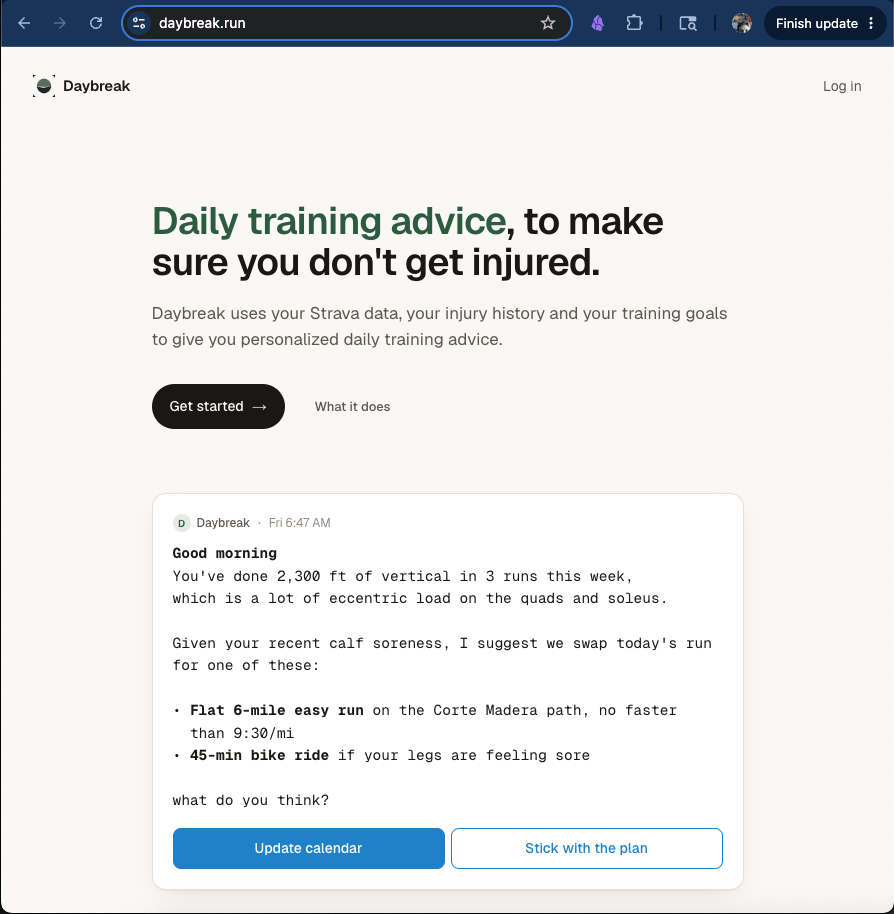
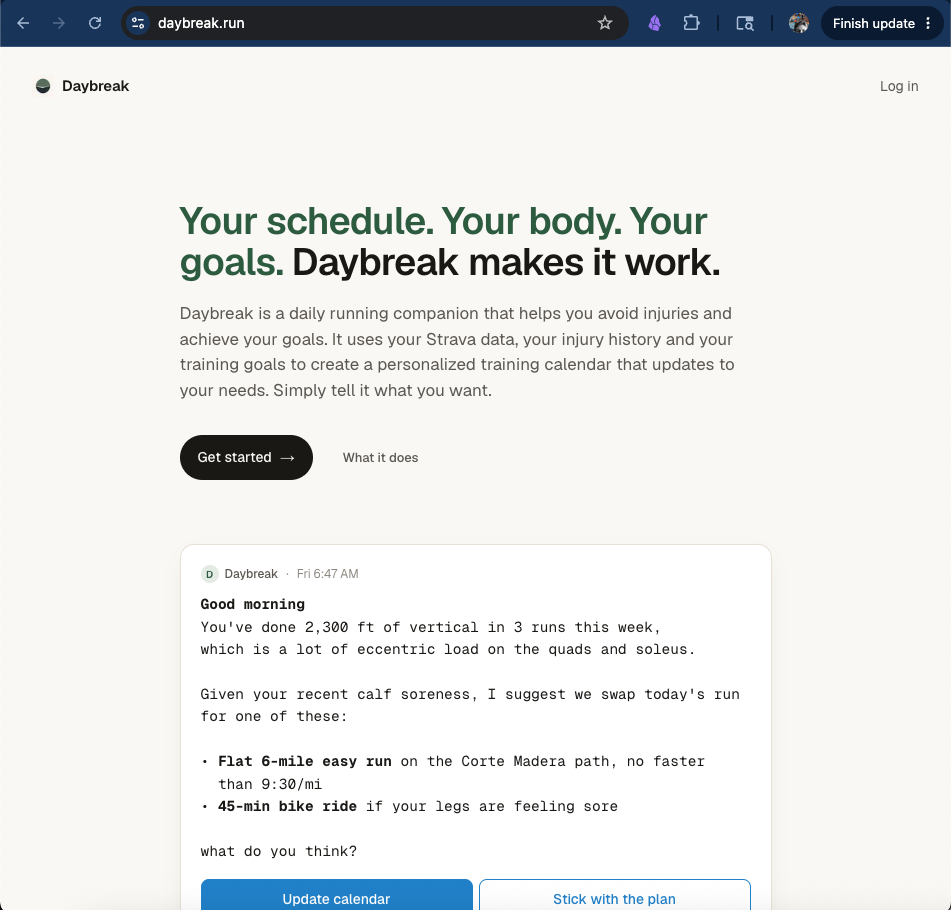
Daybreak updates

diff --git a/index.html b/index.html
@@ -356,13 +356,64 @@
     display:flex;justify-content:space-between;flex-wrap:wrap;gap:12px;
   }
 
+  /* mobile-only chrome (hidden on desktop) */
+  .topbar{display:none}
+  .sheet{display:none}
+
   /* responsive */
   @media (max-width: 760px){
-    .layout{grid-template-columns:1fr;gap:36px;padding:40px 24px 80px}
-    .side{position:static}
-    .nav{flex-direction:row;flex-wrap:wrap;gap:14px}
-    .nav a{padding-left:0;margin-left:0;border:0}
-    .nav a.cur{border:0;text-decoration:underline;text-underline-offset:4px;text-decoration-thickness:2px}
+    .layout{grid-template-columns:1fr;gap:36px;padding:12px 24px 80px}
+    .side{display:none}
+
+    .topbar{
+      display:flex;align-items:center;justify-content:space-between;
+      padding:20px 24px;margin:0 -24px 8px;
+    }
+    .topbar-brand{
+      font-family:var(--serif);font-weight:500;font-size:20px;letter-spacing:0.5px;
+      color:var(--ink);text-decoration:none;
+    }
+    .menu-btn{
+      width:40px;height:40px;border:0;background:transparent;cursor:pointer;
+      display:flex;flex-direction:column;justify-content:center;align-items:center;gap:5px;
+      padding:0;border-radius:3px;
+    }
+    .menu-btn span{
+      display:block;width:22px;height:1px;background:var(--ink);
+      transition:background .12s;
+    }
+    .menu-btn:hover span{background:var(--ink)}
+
+    .sheet{
+      display:block;position:fixed;inset:0;background:var(--paper);z-index:100;
+      opacity:0;pointer-events:none;transition:opacity .2s ease;
+      padding:72px 36px;overflow-y:auto;
+    }
+    body.sheet-open{overflow:hidden}
+    body.sheet-open .sheet{opacity:1;pointer-events:auto}
+    .sheet-close{
+      position:absolute;top:14px;right:18px;width:40px;height:40px;
+      border:0;background:transparent;cursor:pointer;
+      font-family:var(--serif);font-weight:300;font-size:32px;line-height:1;
+      color:var(--ink-2);padding:0;
+    }
+    .sheet-close:hover{color:var(--ink)}
+    .sheet-nav{display:flex;flex-direction:column;gap:18px;margin-bottom:36px}
+    .sheet-nav a{
+      font-family:var(--serif);font-weight:400;font-size:22px;line-height:1.2;
+      color:var(--ink);text-decoration:none;
+    }
+    .sheet-nav a.cur{font-weight:500;text-decoration:underline;text-decoration-color:var(--ink-4);text-underline-offset:5px;text-decoration-thickness:1px}
+    .sheet-label{
+      font-family:var(--mono);font-size:10px;letter-spacing:1.5px;text-transform:uppercase;
+      color:var(--ink-3);margin:0 0 14px;
+    }
+    .sheet-contact{display:flex;flex-direction:column;gap:12px}
+    .sheet-contact a{
+      font-family:var(--serif);font-weight:400;font-size:18px;
+      color:var(--ink-2);text-decoration:none;
+    }
+
     .proj-item{padding:36px 0 8px}
     .proj-detail{grid-template-columns:1fr;gap:28px}
     .intro{grid-template-columns:72px 1fr;gap:16px}
@@ -382,6 +433,14 @@
 <body class="no-current">
 
 <div class="layout">
+
+  <!-- ============ MOBILE TOP BAR ============ -->
+  <header class="topbar" aria-label="Site header">
+    <a href="/" data-route="about" class="topbar-brand">David Temple</a>
+    <button class="menu-btn" id="menuBtn" aria-label="Open menu" aria-expanded="false" aria-controls="mobileSheet">
+      <span></span><span></span><span></span>
+    </button>
+  </header>
 
   <!-- ============ SIDEBAR ============ -->
   <aside class="side">
@@ -544,11 +603,11 @@
         <article class="proj-item" data-stage="prototype">
           <div class="proj-meta">
             <span class="date">May, 2026</span>
-            <span class="pill prototype">prototype</span>
+            <span class="pill experiment">market experiment</span>
           </div>
-          <h3 class="proj-title"><a href="https://daybreak.run" target="_blank">Daybreak &mdash; a personal training coach in Telegram</a></h3>
+          <h3 class="proj-title"><a href="https://daybreak.run" target="_blank">Daybreak &mdash; a running companion</a></h3>
           <p class="proj-overview">
-            A training coach I built for myself and am slowly opening up. Daybreak uses an athlete's Strava data, injury history, and training goals to deliver personalized daily training advice grounded in real-world training plans and principles. Onboarding, daily check-ins, plan adjustments for flare-ups and tweaks, and calendar integration all happen entirely in Telegram; a minimalist Next.js app handles allowlist signup, Strava OAuth, and a read-only plan view.
+            A running companion tool I built for myself and am slowly opening up. Daybreak uses an athlete's Strava data, injury history, and training goals to deliver personalized daily training advice grounded in real-world training plans and principles. Onboarding, daily check-ins, plan adjustments for flare-ups and tweaks, and calendar integration all happen entirely in Telegram; a minimalist Next.js app handles allowlist signup, Strava OAuth, and a read-only plan view.
           </p>
 
           <div class="carousel solo" data-carousel>
@@ -569,9 +628,9 @@
             <div>
               <div class="colhead">Takeaways so far</div>
               <ol class="learnings">
-                <li>For just myself, I could manage all of this with .md context files. Introducing a full database added a lot of scope.</li>
-                <li>Telegram integration has been easy. Strava is a pain in the ass.</li>
-                <li>Spent a bunch of time fussing with env variables on Vercel.</li>
+                <li>Going from a personal context system to a full next.js harness took 3-4 days.</li>
+                <li>Onboarding + plan generation has been the most challenging part. I've rebuilt it several times, relinquishing more to the LLMs each time in the name of flexibility.</li>
+                <li>Repeating pattern: I build something too deterministically, and have to rebuild in a way that gives more freedom to the LLM.</li>
               </ol>
             </div>
           </div>
@@ -883,6 +942,23 @@
 
 </div>
 
+<!-- ============ MOBILE SHEET ============ -->
+<div class="sheet" id="mobileSheet" role="dialog" aria-modal="true" aria-hidden="true" aria-label="Menu">
+  <button class="sheet-close" aria-label="Close menu">&times;</button>
+  <nav class="sheet-nav" id="sheet-nav">
+    <a href="/" data-route="about">About</a>
+    <a href="/projects" data-route="projects">Projects</a>
+    <a href="https://github.com/dtemple">Github</a>
+    <a href="https://docs.google.com/document/d/1_KHnRj4mjGBAbWYQtQ60Akv7Sm_zeATYgDxjrpMiKtE/edit?tab=t.0">Quick-Guide to Product</a>
+  </nav>
+  <div class="sheet-label">Contact</div>
+  <div class="sheet-contact">
+    <a href="https://www.linkedin.com/in/dtemple/">LinkedIn</a>
+    <a href="http://x.com/dtemple">Twitter</a>
+    <a href="mailto:dtemple@gmail.com">Email</a>
+  </div>
+</div>
+
 <script>
   // ---------- routing ----------
   function setRoute(route){
@@ -890,7 +966,7 @@
     document.querySelectorAll('.page').forEach(p => {
       p.classList.toggle('active', p.dataset.route === route);
     });
-    document.querySelectorAll('#primary-nav a[data-route]').forEach(a => {
+    document.querySelectorAll('#primary-nav a[data-route], #sheet-nav a[data-route]').forEach(a => {
       a.classList.toggle('cur', a.dataset.route === route);
     });
     window.scrollTo({top:0, behavior:'instant'});
@@ -922,6 +998,27 @@
     navigateTo(route || 'about');
   });
   routeFromLocation();
+
+  // ---------- mobile sheet ----------
+  const menuBtn = document.getElementById('menuBtn');
+  const sheet = document.getElementById('mobileSheet');
+  const sheetClose = sheet.querySelector('.sheet-close');
+  function openSheet(){
+    document.body.classList.add('sheet-open');
+    menuBtn.setAttribute('aria-expanded', 'true');
+    sheet.setAttribute('aria-hidden', 'false');
+  }
+  function closeSheet(){
+    document.body.classList.remove('sheet-open');
+    menuBtn.setAttribute('aria-expanded', 'false');
+    sheet.setAttribute('aria-hidden', 'true');
+  }
+  menuBtn.addEventListener('click', openSheet);
+  sheetClose.addEventListener('click', closeSheet);
+  document.addEventListener('keydown', e => { if (e.key === 'Escape') closeSheet(); });
+  sheet.addEventListener('click', e => {
+    if (e.target.closest('a')) closeSheet();
+  });
 
   // ---------- filter ----------
   const stage = document.getElementById('stage');
